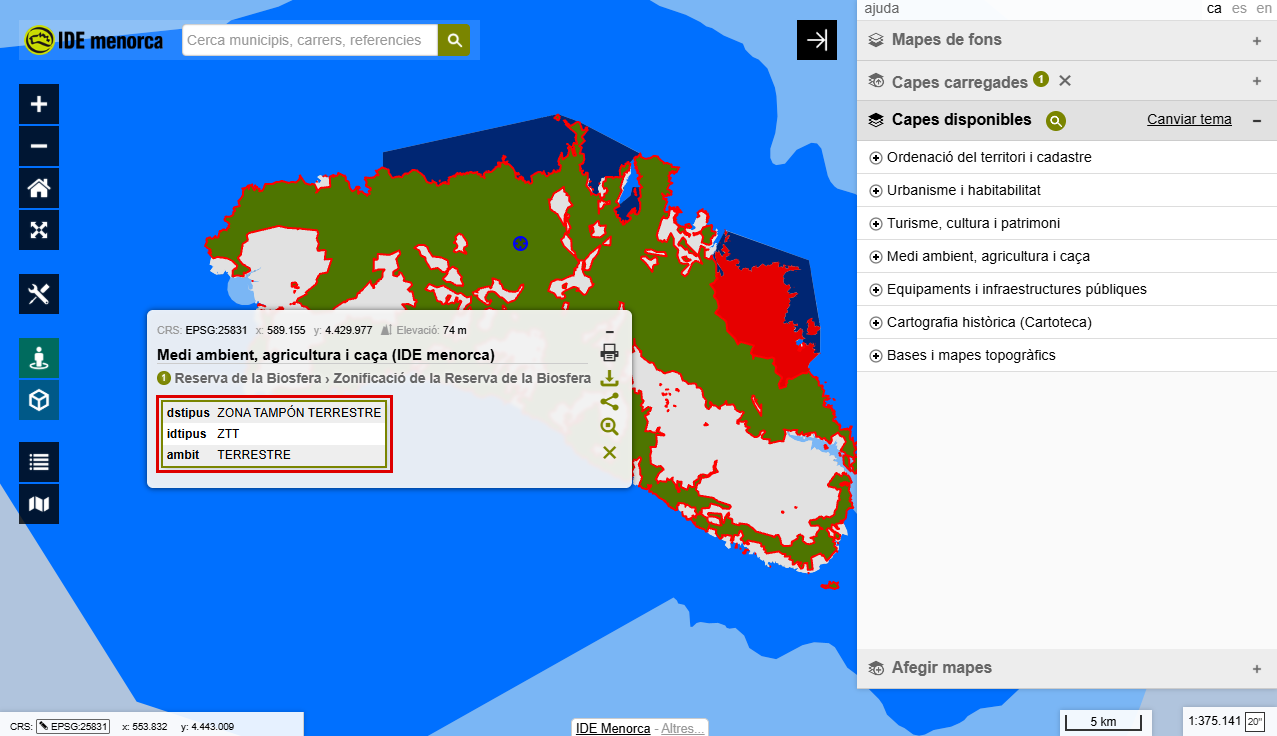
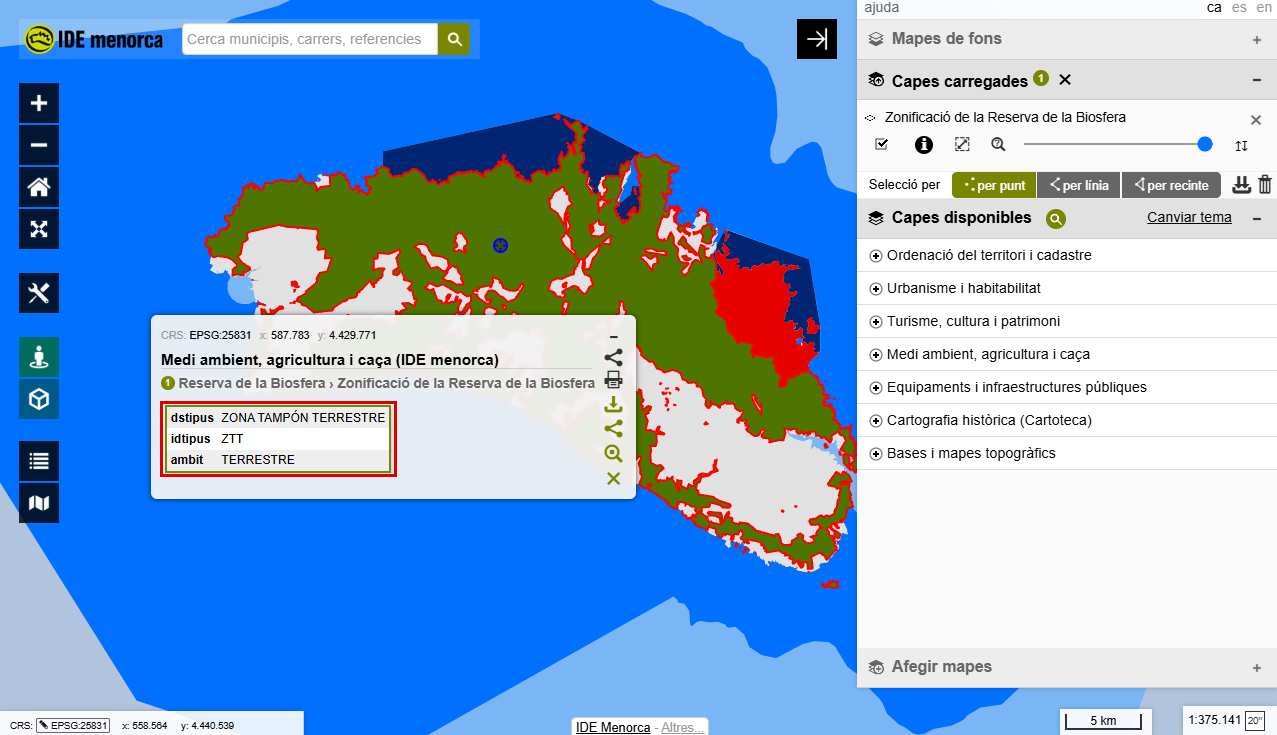
Refà les captures de la 4.6 i desfà la reassignació
Les dues captures estan refetes tal com demanava la fitxa, o sigui que la
decisió de reaprofitar-ne una per a un altre pas ja no fa falta i es desfà:

- 46-atributs-element.png torna al pas 2, ara amb el panell de capes obert
  perquè es vegi la fila de selecció que ha produït el resultat. Ressaltada
  la taula d'atributs.
- 46-atributs-dues-capes.png va al pas 5, amb les dues capes carregades i els
  resultats agrupats. Ressaltades les dues capçaleres de grup amb el seu
  cercle verd.

El pas 4 es queda sense captura, com estava previst.

A les incidències del visor s'hi afegeix que en carregar una segona capa el
panell creix i empeny la resta cap avall: l'arbre de capes disponibles queda
tallat i "Afegir mapes" surt de la vista.

diff --git a/docs/formacio/basic/modul-4-visor/06-consulta-atributs.md b/docs/formacio/basic/modul-4-visor/06-consulta-atributs.md
@@ -26,21 +26,16 @@ porten associada.
 
 4. **Seleccionar-ne diversos.** Amb **per línia** o **per recinte**, dibuixa
    sobre el mapa i acaba amb doble clic. Se seleccionen tots els elements que
-   toquin el que has dibuixat, i un **cercle verd** diu quants n'has agafat.
-
-    <figure markdown>
-      ![Una selecció per recinte amb el polígon dibuixat sobre el mapa i el requadre amb els elements trobats. El cercle verd del recompte, emmarcat](img/46-seleccio-recinte.png){ .captura }
-      <figcaption>El cercle verd compta els elements que ha agafat el recinte.</figcaption>
-    </figure>
+   toquin el que has dibuixat.
 
 5. **Llegir resultats de diverses capes.** Quan els elements vénen de capes
-   diferents, els resultats s'agrupen per capa, cadascuna amb el seu recompte.
+   diferents, els resultats s'agrupen per capa, i un **cercle verd** indica
+   quants n'hi ha de cadascuna.
 
-    !!! note "Captura pendent — `img/46-dues-capes.png`"
-        El requadre amb resultats de **dues** capes alhora, agrupats, amb el
-        cercle verd de cada grup.
-
-        Peu de foto previst: *Amb dues capes carregades, els resultats surten agrupats i comptats per capa.*
+    <figure markdown>
+      ![El requadre amb resultats de dues capes, agrupats, amb la capçalera i el cercle verd de cada grup emmarcats](img/46-atributs-dues-capes.png){ .captura }
+      <figcaption>Amb dues capes carregades, els resultats surten agrupats i comptats per capa.</figcaption>
+    </figure>
 
 6. **Netejar la selecció.** La **paperera** de la fila de selecció treu del mapa
    tot el que hi hagis seleccionat.

diff --git a/INCIDENCIES-VISOR.md b/INCIDENCIES-VISOR.md
@@ -8,6 +8,14 @@ redactàvem el curs i el manual. Es recullen aquí per no perdre-les; corregir-l
 
 ---
 
+## Interfície
+
+| On | Què passa |
+|---|---|
+| Panell de capes carregades | En carregar una **segona** capa, el panell creix i empeny la resta cap avall. L'arbre de capes disponibles queda tallat per sota i «Afegir mapes» surt de la vista. Amb una sola capa, el panell es veu bé |
+
+---
+
 ## Traduccions
 
 | On | Què passa | Hauria de dir |
